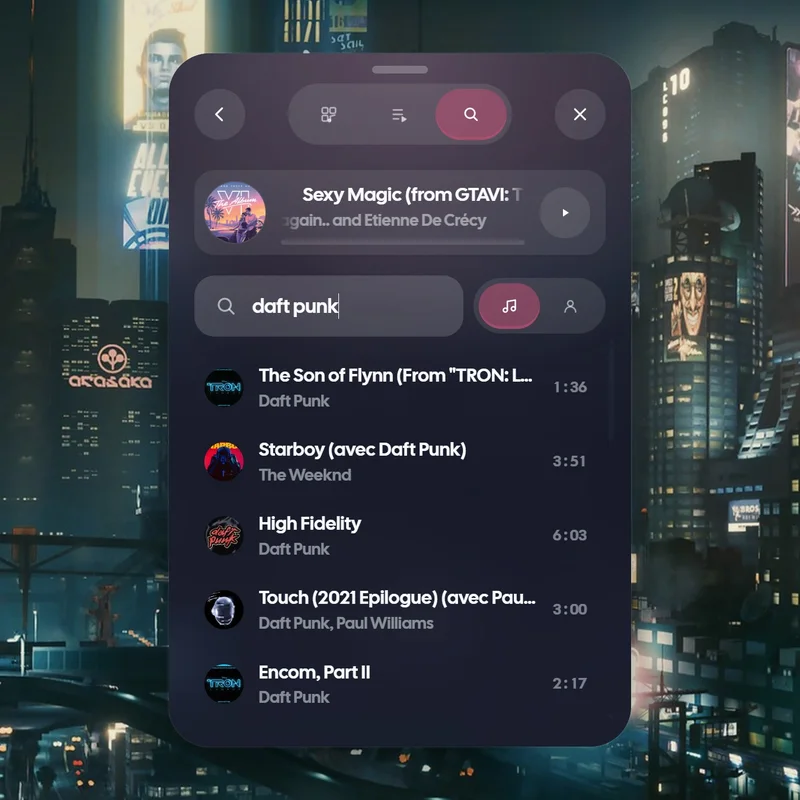
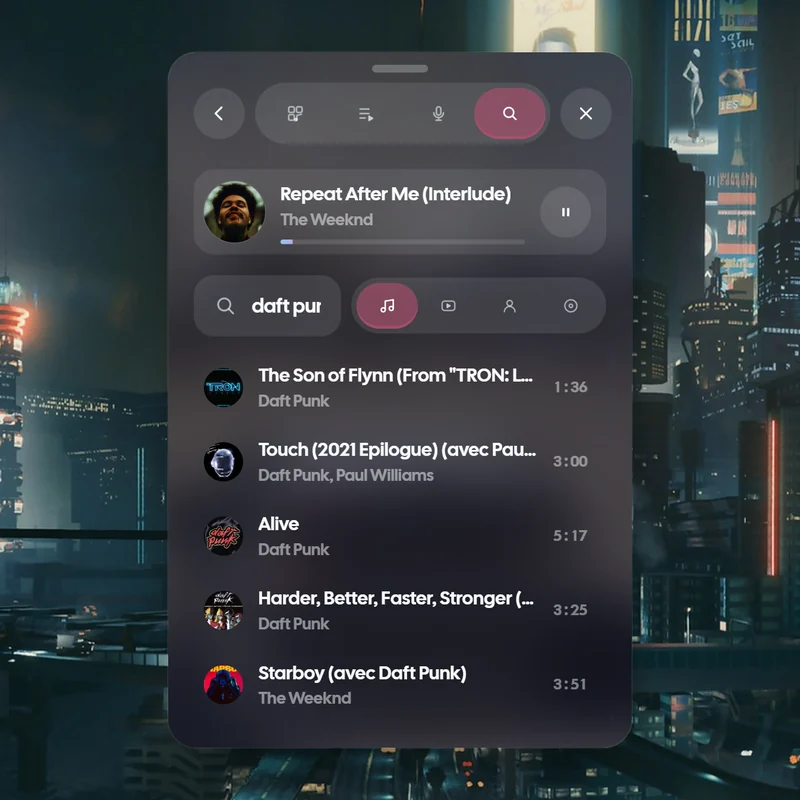
README : médias refaits avec l'interface 1.0.5 (paroles, recherche par albums, ouverture et fermeture du panneau)

diff --git a/README.fr.md b/README.fr.md
@@ -18,7 +18,7 @@ Windows 10 et 11 · Gratuit et open source · Un plugin pour <a href="https://gi
 
 <br>
 
-<img src="docs/media/hero.webp" width="100%" alt="Le panneau Music in the Box qui s'ouvre par-dessus une ville de nuit dans Cyberpunk 2077, puis passe au titre suivant : pochette, titre, barre de progression, commandes de lecture et volume">
+<img src="docs/media/hero.webp" width="100%" alt="Le panneau Music in the Box qui s'ouvre par-dessus une ville de nuit dans Cyberpunk 2077, passe au titre suivant puis se referme : pochette, titre, barre de progression, commandes de lecture, volume et les quatre onglets">
 
 </div>
 
@@ -34,14 +34,14 @@ Windows 10 et 11 · Gratuit et open source · Un plugin pour <a href="https://gi
 ## Toute votre bibliothèque YouTube Music
 
 <p align="center">
-  <img src="docs/media/tour.webp" width="62%" alt="Visite du panneau : le lecteur, puis les playlists, les titres aimés et une recherche de Daft Punk">
+  <img src="docs/media/tour.webp" width="62%" alt="Visite du panneau : le lecteur, les playlists, la file « À suivre », les paroles qui suivent la chanson, puis une recherche de Daft Punk jusqu'à l'album Discovery">
 </p>
 
-Connectez votre compte Google une fois, et le panneau vous donne votre bibliothèque : playlists et titres aimés, la file « À suivre », et la recherche par titre ou par artiste. Vos titres aimés s'affichent dès la première page, la suite arrive pendant que vous parcourez.
+Connectez votre compte Google une fois, et le panneau vous donne votre bibliothèque : playlists et titres aimés, la file « À suivre », et la recherche par titre, vidéo, artiste ou album. Vos titres aimés s'affichent dès la première page, la suite arrive pendant que vous parcourez.
 
 <p align="center">
   <img src="docs/media/playlists.webp" width="32%" alt="La vue Playlists : titres aimés, récap et mix">
-  <img src="docs/media/liked.webp" width="32%" alt="Les titres aimés, avec un grand bouton lecture">
+  <img src="docs/media/lyrics.webp" width="32%" alt="Les paroles de la chanson en cours, la ligne chantée en blanc">
   <img src="docs/media/search.webp" width="32%" alt="Recherche de Daft Punk : titres, artistes et durées">
 </p>
 

diff --git a/README.md b/README.md
@@ -18,7 +18,7 @@ Windows 10 and 11 · Free and open source · A plugin for <a href="https://githu
 
 <br>
 
-<img src="docs/media/hero.webp" width="100%" alt="The Music in the Box panel opening on top of a night city in Cyberpunk 2077, then skipping to the next song: cover, title, progress bar, playback controls and volume">
+<img src="docs/media/hero.webp" width="100%" alt="The Music in the Box panel opening on top of a night city in Cyberpunk 2077, then skipping to the next song and closing again: cover, title, progress bar, playback controls, volume and the four tabs">
 
 </div>
 
@@ -34,14 +34,14 @@ Press **Alt+C** on the keyboard, or hold **View + Y** on a controller. The panel
 ## Your whole YouTube Music library
 
 <p align="center">
-  <img src="docs/media/tour.webp" width="62%" alt="Tour of the panel: the player, then the playlists, the liked songs, and a search for Daft Punk">
+  <img src="docs/media/tour.webp" width="62%" alt="Tour of the panel: the player, the playlists, what plays next, the lyrics following the song, then a search for Daft Punk down to the Discovery album">
 </p>
 
-Sign in once with your Google account and the panel gives you your library: your playlists and liked songs, what plays next, and search by song or by artist. Your liked songs show up as soon as the first page arrives, and the rest loads while you scroll.
+Sign in once with your Google account and the panel gives you your library: your playlists and liked songs, what plays next, and search by song, video, artist or album. Your liked songs show up as soon as the first page arrives, and the rest loads while you scroll.
 
 <p align="center">
   <img src="docs/media/playlists.webp" width="32%" alt="The Playlists view: liked music, a recap and mixes">
-  <img src="docs/media/liked.webp" width="32%" alt="The liked songs, with a big play button">
+  <img src="docs/media/lyrics.webp" width="32%" alt="The lyrics of the song that is playing, the current line in white">
   <img src="docs/media/search.webp" width="32%" alt="Searching for Daft Punk: songs with their artists and durations">
 </p>
 
